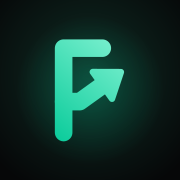
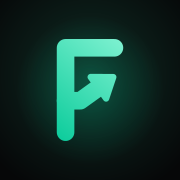
Add files via upload

diff --git a/404.html b/404.html
@@ -12,7 +12,7 @@
 </head>
 <body>
 <div class="wrap">
-<header class="top"><div class="mark"><a href="/"><svg xmlns="http://www.w3.org/2000/svg" viewBox="199 204 620 620" aria-hidden="true"><defs><linearGradient id="gr" gradientUnits="userSpaceOnUse" x1="250" y1="820" x2="780" y2="200"><stop offset="0" stop-color="#00C896"/><stop offset="1" stop-color="#8AF5D6"/></linearGradient></defs><path d="M582,274 L362,274 L362,754" stroke="url(#gr)" stroke-width="100" stroke-linecap="round" stroke-linejoin="round" fill="none"/><path d="M362,578 L454,578 L608.8,466.9" stroke="url(#gr)" stroke-width="100" stroke-linecap="round" stroke-linejoin="round" fill="none"/><path d="M688,410 L637.2,562.2 L527.6,409.5 Z" fill="url(#gr)" stroke="url(#gr)" stroke-width="36" stroke-linejoin="round"/></svg><span>FLORIQ</span></a></div><a class="lang" href="/es/">Español</a></header>
+<header class="top"><div class="mark"><a href="/"><svg xmlns="http://www.w3.org/2000/svg" viewBox="202 202 620 620" aria-hidden="true"><defs><linearGradient id="gr" gradientUnits="userSpaceOnUse" x1="250" y1="820" x2="780" y2="200"><stop offset="0" stop-color="#00C896"/><stop offset="1" stop-color="#8AF5D6"/></linearGradient></defs><path d="M651,272 L373,272 L373,752" stroke="url(#gr)" stroke-width="100" stroke-linecap="round" stroke-linejoin="round" fill="none"/><path d="M373,573 L457,573 L580.8,484.1" stroke="url(#gr)" stroke-width="100" stroke-linecap="round" stroke-linejoin="round" fill="none"/><path d="M644.3,438.6 L603.6,560.4 L515.9,438.2 Z" fill="url(#gr)" stroke="url(#gr)" stroke-width="36" stroke-linejoin="round"/></svg><span>FLORIQ</span></a></div><a class="lang" href="/es/">Español</a></header>
 <section class="hero"><h1>Page not found</h1><p><a href="/">Go to Floriq</a></p></section>
 <footer><nav><a href="/privacy/">Privacy</a><a href="/terms/">Terms</a><a href="/support/">Support</a></nav><span>© 2026 Floriq · <a href="mailto:support@floriqapp.com">support@floriqapp.com</a></span></footer>
 </div>

diff --git a/index.html b/index.html
@@ -12,7 +12,7 @@
 </head>
 <body>
 <div class="wrap">
-<header class="top"><div class="mark"><a href="/"><svg xmlns="http://www.w3.org/2000/svg" viewBox="199 204 620 620" aria-hidden="true"><defs><linearGradient id="gr" gradientUnits="userSpaceOnUse" x1="250" y1="820" x2="780" y2="200"><stop offset="0" stop-color="#00C896"/><stop offset="1" stop-color="#8AF5D6"/></linearGradient></defs><path d="M582,274 L362,274 L362,754" stroke="url(#gr)" stroke-width="100" stroke-linecap="round" stroke-linejoin="round" fill="none"/><path d="M362,578 L454,578 L608.8,466.9" stroke="url(#gr)" stroke-width="100" stroke-linecap="round" stroke-linejoin="round" fill="none"/><path d="M688,410 L637.2,562.2 L527.6,409.5 Z" fill="url(#gr)" stroke="url(#gr)" stroke-width="36" stroke-linejoin="round"/></svg><span>FLORIQ</span></a></div><a class="lang" href="/es/">Español</a></header>
+<header class="top"><div class="mark"><a href="/"><svg xmlns="http://www.w3.org/2000/svg" viewBox="202 202 620 620" aria-hidden="true"><defs><linearGradient id="gr" gradientUnits="userSpaceOnUse" x1="250" y1="820" x2="780" y2="200"><stop offset="0" stop-color="#00C896"/><stop offset="1" stop-color="#8AF5D6"/></linearGradient></defs><path d="M651,272 L373,272 L373,752" stroke="url(#gr)" stroke-width="100" stroke-linecap="round" stroke-linejoin="round" fill="none"/><path d="M373,573 L457,573 L580.8,484.1" stroke="url(#gr)" stroke-width="100" stroke-linecap="round" stroke-linejoin="round" fill="none"/><path d="M644.3,438.6 L603.6,560.4 L515.9,438.2 Z" fill="url(#gr)" stroke="url(#gr)" stroke-width="36" stroke-linejoin="round"/></svg><span>FLORIQ</span></a></div><a class="lang" href="/es/">Español</a></header>
 <section class="hero">
 <h1>Your money,<br><span>growing smarter.</span></h1>
 <p>Get your Money Score, level up with small missions, and talk to an AI coach that knows your numbers. In English and Spanish.</p>
